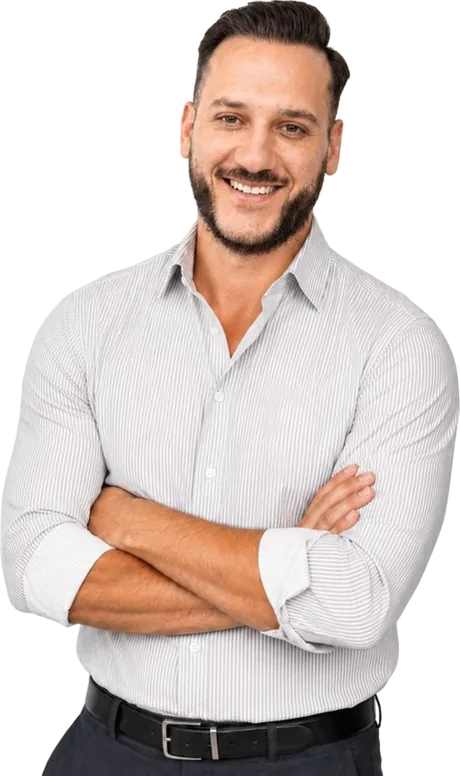
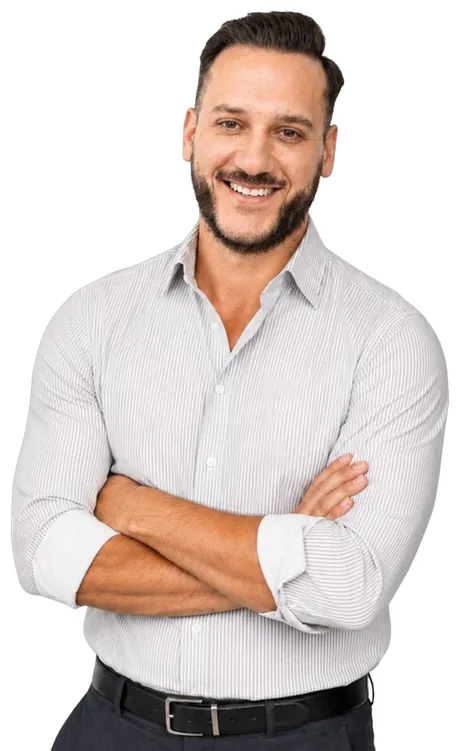
Preise: Erstgespraech-Box auf die Vorlage umgebaut
Helle Karte mit grosser Ueberschrift und vier Sinnbild-Zeilen, amberner
Knopf, freigestelltes Portrait mit weisser Kontur, Handschrift und
Namenszug rechts daneben. Die vier Zeilen sind inhaltlich dieselben wie
vorher, nur in Stichwort und Erlaeuterung getrennt.

Die Kontur steckt in der Bilddatei: Alphamaske aufgeweitet und weiss
hinterlegt, gemessen 13 px auf 944 px Breite. Als Filterkette franst sie
an Unterarmen und Kragen aus.

Motivhoehe auf die Spaltenhoehe begrenzt. Mit width 72 Prozent wurde das
Motiv 606 px hoch gegen 536 px Spalte und ragte 61,33 px in die Karte
Wachstum, die z-index 2 traegt: der Haaransatz war an deren Unterkante
hart abgeschnitten, und elementFromPoint lieferte auf Kopfhoehe den Knopf
Wachstum waehlen. Ueber der Karte sind gemessen nur 8,6 px frei.

Gemessen bei 1440 und 1200: Verhaeltnis 0,6126 unveraendert, unten
buendig auf 0,00 px, keine Ueberlappung, kein waagrechter Ueberlauf, null
Konsolenfehler. Kontrast ueber acht Felder schlechtestens 3,61.

diff --git a/stil.css b/stil.css
@@ -3416,81 +3416,121 @@ body.langtakt .preis__neu{font-size:1em;opacity:1}
      Raster und 28,8 px Abstand sind das rund 516 px, also genau die
      Haelfte. Die zweite Spur derselben Zeile bleibt frei und nimmt das
      Portrait auf. */
-  .preise__raster .erst{grid-column:1;align-self:stretch}
-  /* Das Portrait kommt als ::after in die frei gewordene zweite Spur —
-     kein Markup-Eingriff noetig. Kontur und Schein wie beim Motiv in der
-     Fusszeile: weich und rundherum, kein gezeichneter Rand. Unten
-     buendig, damit es auf der Box-Unterkante steht. */
-  /* 20.09.2026, Auftraggeber: "nur oberkoerper, groesser und bis zum unteren
-     rand". Der Zuschnitt sitzt in der Bilddatei: der Guertel wurde
-     gemessen, nicht geschaetzt — die mittlere Helligkeit der sichtbaren
-     Pixel je Zeile bricht bei 69 Prozent der Hoehe um 138 Stufen ein
-     (helles Hemd auf dunkle Hose), geschnitten wurde knapp darunter bei
-     75 Prozent. Neues Verhaeltnis 461 / 778.
-     ABSOLUT statt Rasterzelle: als Zelle wuerde ein hoeheres Motiv die
-     Rasterzeile aufblaehen und die Box mitziehen. So ragt es oben ueber
-     die Box hinaus, ohne das Layout zu verschieben, und steht unten
-     buendig auf der Rasterkante. */
-  .preise__raster{position:relative}
-  .preise__raster::after{content:"";position:absolute;
-    right:0;bottom:0;
-    /* NACHTRAG: 27vw ergab bei 1440 eine Motivhoehe von 656 px. Der
-       Rasterbereich ueber der Box misst aber nur rund 520 px — der Kopf
-       lief oben aus dem Bild. "Groesser" und "bis zum unteren Rand"
-       waren erfuellt, "nur Oberkoerper" damit zerstoert. Die Breite ist
-       jetzt so gewaehlt, dass die Hoehe (Verhaeltnis 0,5926) in den Platz
-       passt und der Kopf vollstaendig steht. */
-    width:clamp(250px,21vw,320px);aspect-ratio:461 / 778;
-    background:url("bilder/erst-person-900.webp") bottom center/contain no-repeat;
-    filter:drop-shadow(0 0 24px rgb(255 255 255 / .6))
-           drop-shadow(0 0 64px rgb(245 165 36 / .38));
-    pointer-events:none}
+  /* 20.09.2026, des Auftraggebers Vorlage (zwei Bilder: Ist-Stand und Ziel):
+     Karte links, freigestelltes Portrait rechts, daneben Handschrift
+     und Namenszug. Die Box spannt wieder ueber beide Spuren, teilt
+     sich intern aber in genau dieselben zwei Spuren mit demselben
+     Abstand — die Karte bleibt damit auf ihrer Haelfte (rund 516 px,
+     am 20.09. gemessen), und die rechte Haelfte kann jetzt Text
+     tragen. Genau das konnte das bisherige ::after nicht: ein
+     erzeugtes Element nimmt kein Markup auf. */
+  .preise__raster .erst{grid-column:1 / -1;
+    grid-template-columns:repeat(2,minmax(0,1fr))}
+  /* Hoehere Spezifitaet als die Grundregel, die die rechte Haelfte
+     abschaltet: .erst__seite steht weiter unten in der Datei und
+     gewaenne sonst allein durch die Reihenfolge. */
+  .preise__raster .erst__seite{display:block}
 }
-/* Folge der absoluten Positionierung: als Rasterzelle entfiel das
-   Portrait unter 1100 px von selbst (dort ist das Raster einspaltig).
-   Absolut verankert tut es das NICHT mehr und klebte sonst ueber dem
-   Inhalt — hier ausdruecklich abschalten. */
+/* Unter 1100 px ist das Raster einspaltig: die Karte steht allein,
+   die rechte Haelfte mit Portrait, Handschrift und Namenszug
+   entfaellt. Abgeschaltet wird sie in der Grundregel
+   (.erst__seite{display:none}) — hier bleibt nur der Ausgleich fuer
+   die ueberstehende Wachstum-Karte. */
 @media (max-width:1099px){
-  .preise__raster::after{display:none}
   .preise__raster .paket--voll{margin:0}
 }
-.erst{display:flex;flex-direction:column;overflow:hidden;
-  background:var(--creme-3);color:var(--tinte);border-radius:var(--r-gross);
-  box-shadow:0 26px 60px -26px rgb(40 22 0 / .45)}
+/* ── Erstgespraech: Karte links, Portrait rechts ──────────────
+   .erst ist nur noch die Klammer um beides. Flaeche, Rundung und
+   Schatten sitzen an der Karte — sonst laege der Schein auch hinter
+   dem freigestellten Motiv und wuerde es als Kasten umranden. */
+.erst{display:grid;gap:clamp(18px,2vw,34px)}
+.erst__seite{display:none;position:relative}
 
-/* ── Kopf: dunkel, mit der Person als Hauptsache ── */
-.erst__haupt{background:var(--tinte);color:var(--creme);
-  padding:clamp(18px,1.5vw,23px)}
+/* Die Karte ist hell wie in des Auftraggebers Vorlage; vorher dunkler Kopf plus
+   heller Fuss. Der Schein liegt HINTER ihr und rundherum, es ist kein
+   gezeichneter Rand — das ist seine ausdrueckliche Ansage vom 20.09.
+   ("Glow-Effekt hinter der Box und rundherum", "ich habe nicht gesagt,
+   dass ich eine orange Umrandung moechte"). Die Haarlinie ist weiss
+   und sitzt auf der Kante, nicht daneben. */
+.erst__karte{display:flex;flex-direction:column;gap:clamp(11px,1vw,15px);
+  overflow:hidden;background:var(--creme-3);color:var(--tinte);
+  border-radius:var(--r-gross);border:1px solid rgb(255 255 255 / .55);
+  padding:clamp(20px,1.8vw,30px);
+  box-shadow:0 0 40px -8px rgb(245 165 36 / .5),
+    0 0 120px -14px rgb(245 165 36 / .55),
+    0 30px 66px -28px rgb(40 22 0 / .6)}
+/* Auf Weiss traegt der offene Akzent nicht — --violett-tief steht bei
+   5,1:1, der helle Ton laege darunter. */
 .erst__marke{display:inline-block;font-size:11.5px;font-weight:800;
-  letter-spacing:.16em;text-transform:uppercase;color:var(--violett);
-  margin-bottom:7px}
-.erst__titel{font-size:clamp(19px,1.35vw,23px);line-height:1.14;letter-spacing:-.03em}
-.erst__unter{color:rgb(247 247 245 / .62);font-size:14.5px;margin-top:3px}
-.erst__person{display:flex;align-items:center;gap:11px;flex-wrap:wrap;
-  margin-top:13px;padding-top:12px;border-top:1px solid var(--linie-hell)}
-.erst__person img{width:42px;height:42px;border-radius:var(--r-pille);
-  object-fit:cover;object-position:50% 14%;flex:0 0 auto}
-.erst__wer{display:grid;line-height:1.25;margin-right:auto}
-.erst__wer b{font-size:16.5px;font-weight:800}
-.erst__wer i{font-style:normal;font-size:13.5px;color:rgb(247 247 245 / .58)}
-.erst__stand{display:inline-flex;align-items:center;gap:7px;font-size:12.5px;
-  font-weight:700;color:rgb(247 247 245 / .74);white-space:nowrap}
+  letter-spacing:.16em;text-transform:uppercase;color:var(--violett-tief)}
+/* Zweizeilig und gross wie in der Vorlage. Der Schlusspunkt ist die
+   Marke — derselbe Punkt wie im Wortbild. */
+.erst__titel{font-size:clamp(30px,2.7vw,44px);line-height:1.04;
+  letter-spacing:-.035em;text-wrap:balance}
+.erst__titel i{font-style:normal;color:var(--violett)}
+
+/* ── Rechte Haelfte: Portrait, Handschrift, Namenszug ─────────
+   Das Portrait haengt absolut, damit ein hoeheres Motiv die
+   Rasterzeile nicht aufblaeht und die Karte mitzieht; unten steht es
+   buendig auf der Kartenkante. Die Huelle wird von der Rasterzeile
+   auf Kartenhoehe gestreckt — daran haengen die beiden Textstuecke. */
+/* HOEHE statt Breite als Mass, gemessen am 20.09.2026: mit width:72%
+   wurde das Motiv 606 px hoch gegen 536 px Spaltenhoehe und ragte
+   61,33 px in die Karte "Wachstum" — die traegt z-index:2, lag also
+   darueber und schnitt den Haaransatz an ihrer Unterkante hart ab.
+   elementFromPoint auf Kopfhoehe lieferte den Knopf "Wachstum
+   waehlen": das Motiv lag hinter einem Kaufknopf. Ueber der Karte
+   sind gemessen nur 8,6 px frei, dort ist nichts zu holen. Mit
+   height:100% kann das Motiv die Zeile nie mehr verlassen. */
+.erst__foto{position:absolute;left:0;bottom:0;height:100%;
+  aspect-ratio:944 / 1541;
+  background:url("bilder/erst-person-900.webp") bottom center/contain no-repeat;
+  filter:drop-shadow(0 0 30px rgb(255 255 255 / .4))
+         drop-shadow(0 0 80px rgb(245 165 36 / .45));
+  pointer-events:none}
+/* Die weisse Kontur steckt IN der Bilddatei: die Alphamaske wurde
+   aufgeweitet und weiss hinterlegt, gemessen 13 px auf 944 px Breite
+   (1,4 Prozent). Nicht als Filterkette — gestapelte drop-shadows
+   fransen an Unterarmen und Kragen aus. */
+/* p.brush ist elementgebunden und damit spezifischer als eine blosse
+   Klasse: .erst__hand allein verlaere Groesse und Farbe an die
+   Grundregel. Darum beide Klassen. */
+/* Die Handschrift steht im freien Streifen NEBEN dem Motiv, nicht
+   ueber der Karte: bei rund 328 px Motivbreite in der 515,6 px
+   breiten Spur bleiben 187,6 px. right:3px statt 0, weil Rock Salt
+   mit seinen Unterlaengen gemessen 1,75 px ueber den eigenen Kasten
+   hinausragt und damit ueber die Rasterkante lief. */
+.erst__hand.brush{position:absolute;right:3px;top:4px;
+  width:min(34%,170px);text-align:center;transform:rotate(-7deg);
+  font-size:clamp(15px,1.25vw,19px);line-height:1.5;color:var(--creme)}
+.erst__wer{position:absolute;right:0;bottom:58px;display:grid;
+  text-align:right;line-height:1.2;color:var(--creme)}
+.erst__wer b{font-size:clamp(19px,1.5vw,24px);font-weight:800}
+.erst__wer i{font-style:normal;font-size:12px;font-weight:700;
+  letter-spacing:.16em;text-transform:uppercase;margin-top:5px;
+  color:rgb(247 247 245 / .82)}
+.erst__stand{position:absolute;right:0;bottom:24px;
+  display:inline-flex;align-items:center;gap:7px;font-size:12.5px;
+  font-weight:700;color:rgb(247 247 245 / .82);white-space:nowrap}
 /* Ein Hinweis, keine Live-Anzeige — deshalb ruhig und ohne Blinken. */
 .erst__stand em{width:8px;height:8px;border-radius:var(--r-pille);
   background:#5BC27F;flex:0 0 auto}
 
-/* ── Fuss: hell, Stichpunkte bewusst NICHT im Paket-Haken ── */
-/* Der Knopf steht auf gleicher Hoehe wie die Knoepfe der beiden
-   Pakete: die Liste nimmt den Rest, darunter folgt nur noch die
-   Mail-Zeile. */
-.erst__fuss{display:flex;flex-direction:column;gap:9px;
-  padding:clamp(18px,1.5vw,23px)}
-.erst__fuss .knopf{padding-top:15px;padding-bottom:15px;font-size:16.5px}
-.erst__punkte{display:grid;gap:6px;list-style:none;margin-bottom:auto}
-.erst__punkte li{position:relative;padding-left:19px;font-size:14.5px;
-  line-height:1.38;color:var(--grau)}
-.erst__punkte li::before{content:"";position:absolute;left:0;top:8px;
-  width:7px;height:7px;border-radius:var(--r-pille);background:var(--violett)}
+/* ── Die vier Zeilen: Sinnbild, Stichwort, Erlaeuterung ───────
+   Inhaltlich unveraendert. Es sind dieselben vier Stichpunkte wie
+   vorher, nur typografisch in Stichwort und Erlaeuterung getrennt,
+   wie es die Vorlage zeigt — kein neuer Text. Die Liste nimmt den
+   Rest der Hoehe, darunter folgen Knopf und Mail-Zeile. */
+.erst__karte .knopf{padding-top:15px;padding-bottom:15px;font-size:16.5px}
+.erst__punkte{display:grid;gap:clamp(10px,1vw,15px);list-style:none;
+  margin:4px 0 auto}
+.erst__punkte li{display:flex;align-items:center;gap:13px}
+.erst__bild{display:grid;place-items:center;width:42px;height:42px;
+  flex:0 0 auto;border-radius:var(--r-pille);
+  color:var(--violett-tief);background:rgb(245 165 36 / .17)}
+.erst__wort{display:grid;line-height:1.3;min-width:0}
+.erst__wort b{font-size:clamp(15px,1.15vw,17px);font-weight:800;color:var(--tinte)}
+.erst__wort i{font-style:normal;font-size:clamp(13px,1vw,14.5px);color:var(--grau)}
 .erst__mail{display:flex;align-items:center;gap:11px;text-decoration:none;
   background:var(--creme-2);border-radius:var(--r-mittel);padding:10px 13px;
   color:var(--tinte);transition:background var(--t-flaeche) var(--kurve)}
@@ -3934,9 +3974,9 @@ body.langtakt .preis__neu{font-size:1em;opacity:1}
   .haken{gap:3px;margin:7px 0 10px;padding-top:7px}
   .haken li{font-size:13.5px;line-height:1.32}
   .paket .knopf.gross{padding-top:12px;padding-bottom:12px;font-size:15.5px}
-  .erst__haupt,.erst__fuss{padding:16px}
-  .erst__punkte{gap:5px}
-  .erst__punkte li{font-size:13.5px}
+  .erst__karte{padding:16px}
+  .erst__punkte{gap:9px}
+  .erst__bild{width:36px;height:36px}
   .ruf{padding-top:26px;padding-bottom:26px}
   .ruf__kopfzeile h2{font-size:clamp(24px,2.2vw,36px)}
   .ruf__lead{font-size:14px}

diff --git a/index.html b/index.html
@@ -745,26 +745,38 @@ setTimeout(function(){document.documentElement.classList.remove("laedt")},8000)}
       </article>
 
       <aside class="erst" data-rein>
-        <div class="erst__haupt">
-          <span class="erst__marke">Kein Paket nötig</span>
-          <h3 class="erst__titel">Kostenloses Erstgespräch</h3>
-          <p class="erst__unter">15 Minuten, unverbindlich.</p>
-          <div class="erst__person">
-            <img src="bilder/portrait-1.jpg" alt="" loading="lazy">
-            <span class="erst__wer"><b>Auftraggeber</b><i>Gründer</i></span>
-            <span class="erst__stand"><em aria-hidden="true"></em>Antwortet heute</span>
-          </div>
-        </div>
+        <div class="erst__karte">
+          <span class="erst__marke">Kostenloses Erstgespräch</span>
+          <h3 class="erst__titel">15 Minuten.<br>Klarheit<i>.</i></h3>
 
-        <div class="erst__fuss">
           <ul class="erst__punkte">
-            <li>15 Minuten per Video oder Telefon</li>
-            <li>Einschätzung zu Aufwand und Preis</li>
-            <li>Antwort meist am selben Arbeitstag</li>
-            <li>Ohne Verpflichtung</li>
+            <li>
+              <span class="erst__bild" aria-hidden="true">
+                <svg viewBox="0 0 24 24" width="20" height="20"><circle cx="12" cy="12" r="8.6" fill="none" stroke="currentColor" stroke-width="1.7"/><path d="M12 7.4V12l3.1 1.9" fill="none" stroke="currentColor" stroke-width="1.7" stroke-linecap="round" stroke-linejoin="round"/></svg>
+              </span>
+              <span class="erst__wort"><b>15 Minuten</b><i>per Video oder Telefon</i></span>
+            </li>
+            <li>
+              <span class="erst__bild" aria-hidden="true">
+                <svg viewBox="0 0 24 24" width="20" height="20"><path d="M20.2 13.4c0 1.3-1 2.3-2.3 2.3H9.6L5.5 18.9v-3.2h-.4c-1.3 0-2.3-1-2.3-2.3V7c0-1.3 1-2.3 2.3-2.3h12.8c1.3 0 2.3 1 2.3 2.3z" fill="none" stroke="currentColor" stroke-width="1.7" stroke-linejoin="round"/></svg>
+              </span>
+              <span class="erst__wort"><b>Einschätzung</b><i>zu Aufwand und Preis</i></span>
+            </li>
+            <li>
+              <span class="erst__bild" aria-hidden="true">
+                <svg viewBox="0 0 24 24" width="20" height="20"><path d="M4.4 19.2h15.2M7.2 19.2v-5.4M12 19.2V7.6M16.8 19.2v-8.2" fill="none" stroke="currentColor" stroke-width="1.7" stroke-linecap="round"/></svg>
+              </span>
+              <span class="erst__wort"><b>Antwort</b><i>meist am selben Arbeitstag</i></span>
+            </li>
+            <li>
+              <span class="erst__bild" aria-hidden="true">
+                <svg viewBox="0 0 24 24" width="20" height="20"><path d="M12 3.6l6.8 2.6v5c0 4-2.9 7.3-6.8 8.2-3.9-.9-6.8-4.2-6.8-8.2v-5z" fill="none" stroke="currentColor" stroke-width="1.7" stroke-linejoin="round"/><path d="m9.2 11.8 2 2 3.6-3.6" fill="none" stroke="currentColor" stroke-width="1.7" stroke-linecap="round" stroke-linejoin="round"/></svg>
+              </span>
+              <span class="erst__wort"><b>Ohne Verpflichtung</b><i>Kein Paket nötig</i></span>
+            </li>
           </ul>
 
-          <a class="knopf knopf--dunkel gross voll erst__knopf" href="#kontakt">
+          <a class="knopf knopf--akzent gross voll erst__knopf" href="#kontakt">
             <span class="rolle"><span>Gespräch buchen</span><span aria-hidden="true">Gespräch buchen</span></span>
           </a>
 
@@ -774,6 +786,13 @@ setTimeout(function(){document.documentElement.classList.remove("laedt")},8000)}
             </span>
             <span class="erst__mailwort">Lieber schreiben?<b>hallo@klartext-digital.ch</b></span>
           </a>
+        </div>
+
+        <div class="erst__seite">
+          <p class="brush erst__hand">Lass uns sprechen.</p>
+          <span class="erst__foto" aria-hidden="true"></span>
+          <p class="erst__wer"><b>Auftraggeber</b><i>Gründer</i></p>
+          <p class="erst__stand"><em aria-hidden="true"></em>Antwortet heute</p>
         </div>
       </aside>
     </div>
